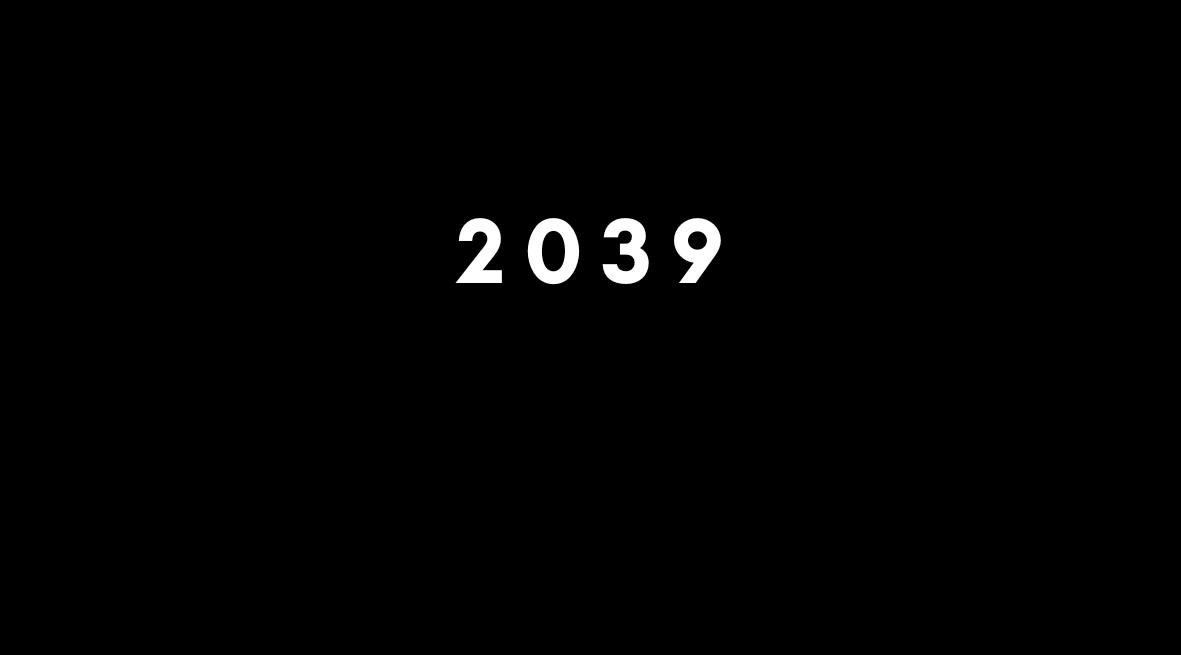
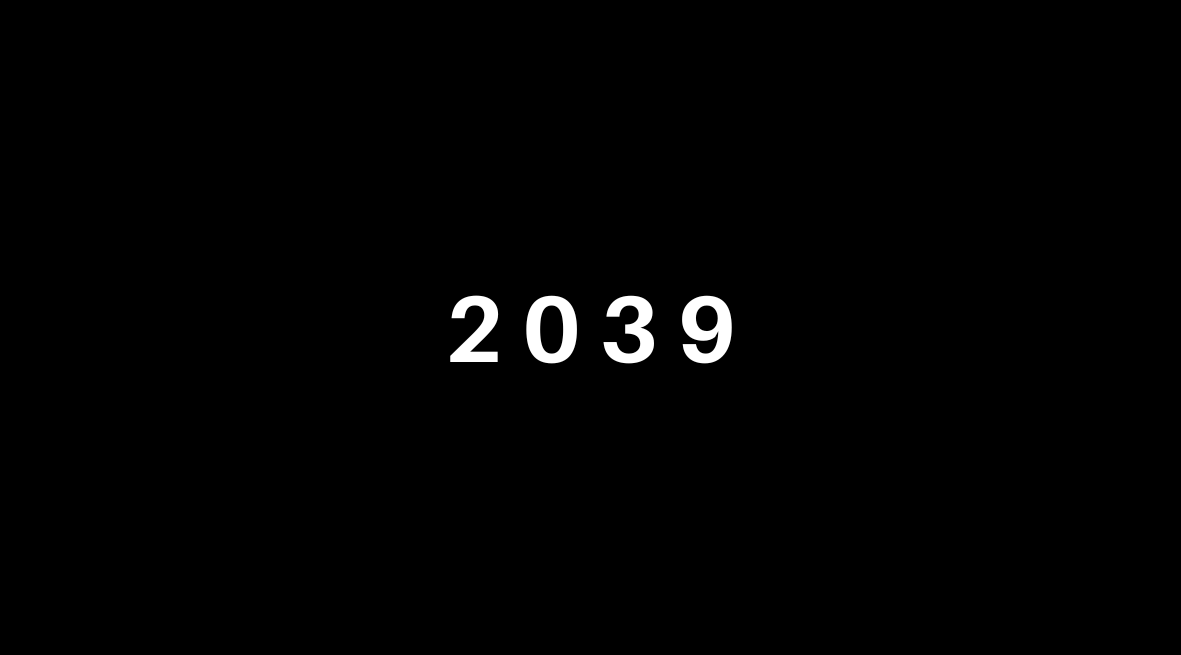
année centrée + modif texte

Changed region(s): [[0.3658, 0.3359, 0.6401, 0.5802]]

diff --git a/styleSheet.css b/styleSheet.css
@@ -165,7 +165,7 @@ img {
 }
 
 .button:hover {
- color: #E7E000;
+  color: #E7E000;
 }
 
 .button:hover .text {
@@ -191,9 +191,9 @@ img {
   padding: 10px 10px;
   background-color: rgba(0, 0, 0, 0.6);
   border-radius: 1em;
-  font-weight: bold;
   color: white;
   text-align: center;
+  font-family: 'Open Sans',sans-serif;
 }
 
 .myH2 {
@@ -472,4 +472,3 @@ footer * {
   font-size: 0.9em;
   text-align: center;
 }
-
